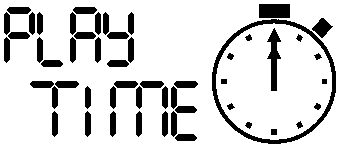
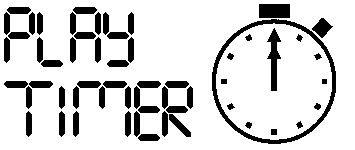
Rename to PlayTimer

diff --git a/README.md b/README.md
@@ -1,3 +1,24 @@
-# PlayTime
+![PlayTimer on a Playdate](/assets/itch-main-sm.png)
+
+# PlayTimer
 
 A simple stopwatch and timer for the Panic Playdate.
+
+Available for download on my [itch.io page here](https://bobbykaz.itch.io/play-timer).
+
+![Demo of app functionality](/assets/menu%20demo.gif)
+
+## Stopwatch features
+
+* dark mode
+* up to 10 lap times can be recorded
+* classic beep sounds!
+* prevents display autolocking while running
+* runs in the background as long as device is manually locked from the app!
+
+## Timer features
+
+* dark mode, again!
+* 3 independent timers that can be configured/paused separately (great for cooking if you have multiple dishes going!)
+* crank adjusts time!
+* even more classic beep sounds!
